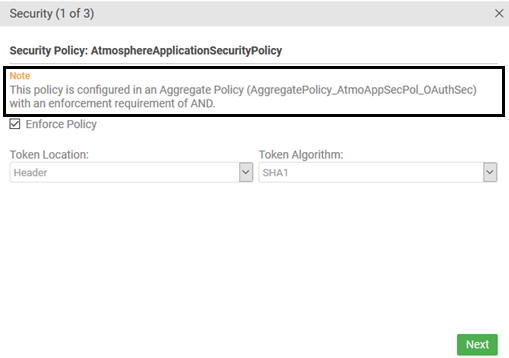
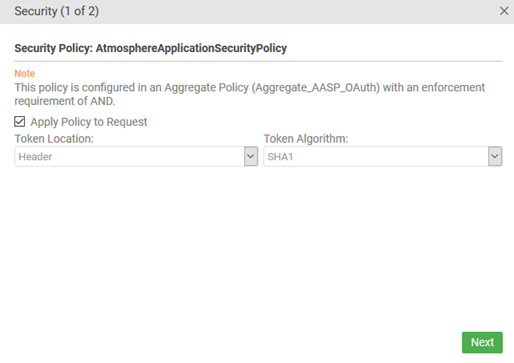
ATMO-30055 Aggregate Policy update for UI mods

diff --git a/cm/learnmore/api_admin_testing_tc.htm b/cm/learnmore/api_admin_testing_tc.htm
@@ -322,10 +322,9 @@ nav-title: API Testing
 	<li>OAuth Security Policy</li>
 </ul>
 <p><strong>Note</strong>: The developer portal itself supports many additional policies on APIs. However, Test Client supports only the policies listed in <a href="#tc_policies_supported">What policies are supported in Test Client?</a> (earlier in this document), and the Aggregate Policy can only include the policies listed above. If an API has policies attached that are not supported in Test Client, results might not be as expected. In this scenario, you'll see a message warning you that the policy is not supported and results might be unexpected.</p>
-<p>In the example below, the API has an Aggregate Policy which includes the AtmosphereApplicationSecurityPolicy, with an enforcement requirement of AND. This means that the Aggregate Policy includes at least one other policy, and must enforce both of them (or all of them). In this scenario, the <strong>Enforce Policy</strong> check box is checked by default, because the Aggregate Policy is configured with an AND condition.</p>
+<p>In the example below, the API has an Aggregate Policy which includes the AtmosphereApplicationSecurityPolicy, with an enforcement requirement of AND. This means that the Aggregate Policy includes at least one other policy, and must enforce both of them (or all of them). In this scenario, the <strong>Apply Policy to Request</strong> check box is checked by default, because the Aggregate Policy is configured with an AND condition.</p>
 <p><img src="assets/tc_security_aggregate.png" alt="Test Client security: Aggregate Policy" /></p>
 <p>By default, this check box inherits the policy configuration, and Test Client enforces the conditions of the policy, or not, depending on the setting. If you change the setting, it doesn't change the behavior of the API that you're sending a test message to. It only changes the way that Test Client composes the request. For example, if there is an Aggregate Policy on the API, and it includes an OAuth Policy with an enforcement requirement of AND, Test Client sends an OAuth token with the request. If you clear the check box, the API still requires an OAuth token, but Test Client doesn't send it with the request. You can use this for test scenarios, including negative testing.</p>
-<p><img src="assets/tc_security_aggregate.png" alt="Test Client security: Aggregate Policy" /></p>
 <p><a href="#top">Back to top</a></p>
 
 
